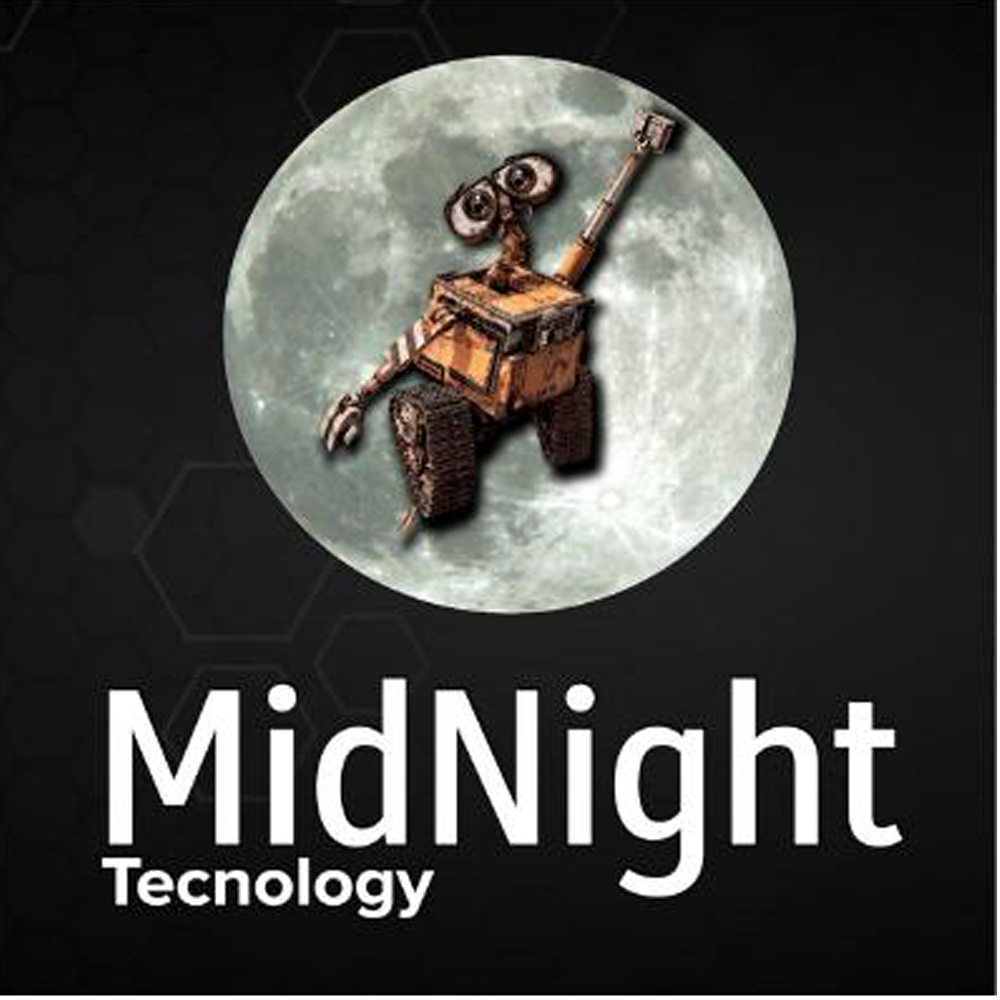
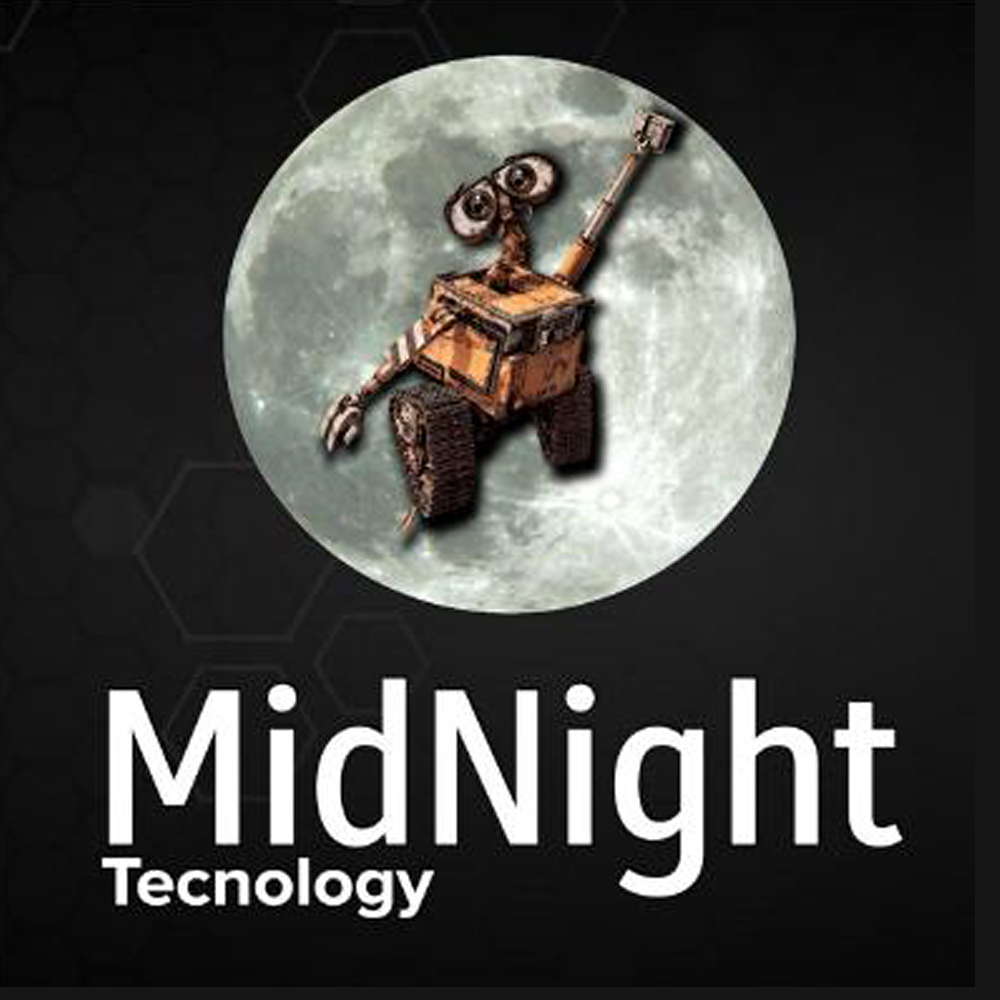
teste

Changed region(s): [[0.0, 0.0, 1.0, 1.0]]

diff --git a/docs/index.html b/docs/index.html
@@ -50,7 +50,7 @@
         <div class="swiper-slide tranding-slide">
           <a href="pages/Impulse.html" style="z-index: 10; position: relative;">
             <div class="tranding-slide-img">
-              <img src="images/projects/midnight.jpg" alt="Tranding">
+              <img src="images/projects/Midnight.png" alt="Tranding">
             </div>
             <div class="tranding-slide-content">
               <h1 class="food-price">2º Semestre</h1>
